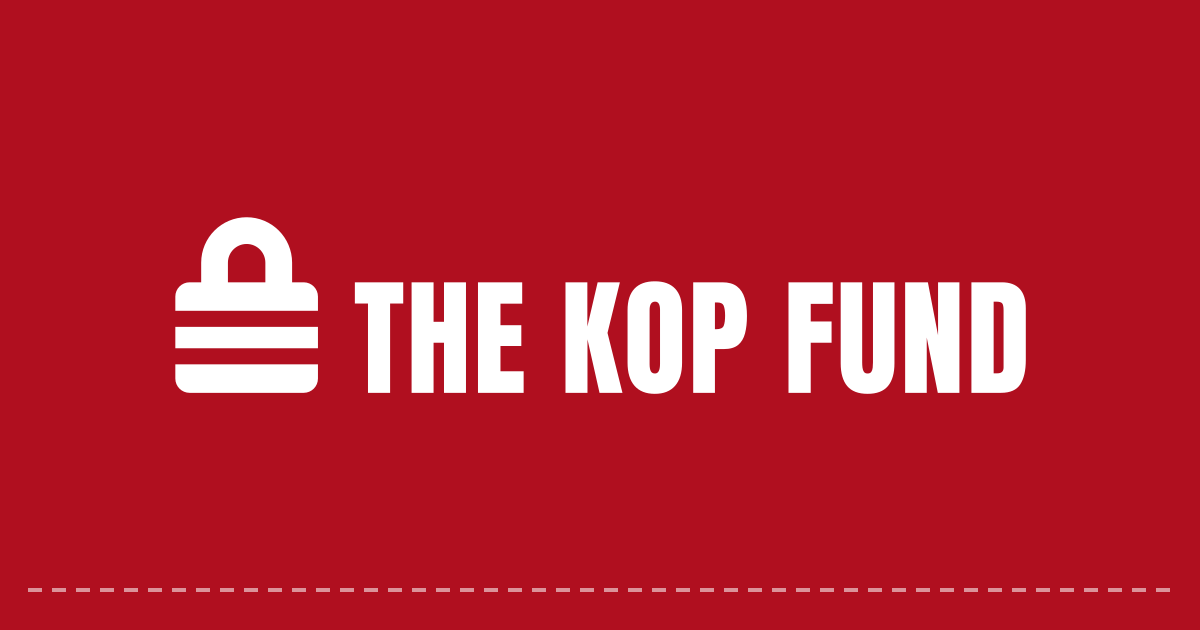
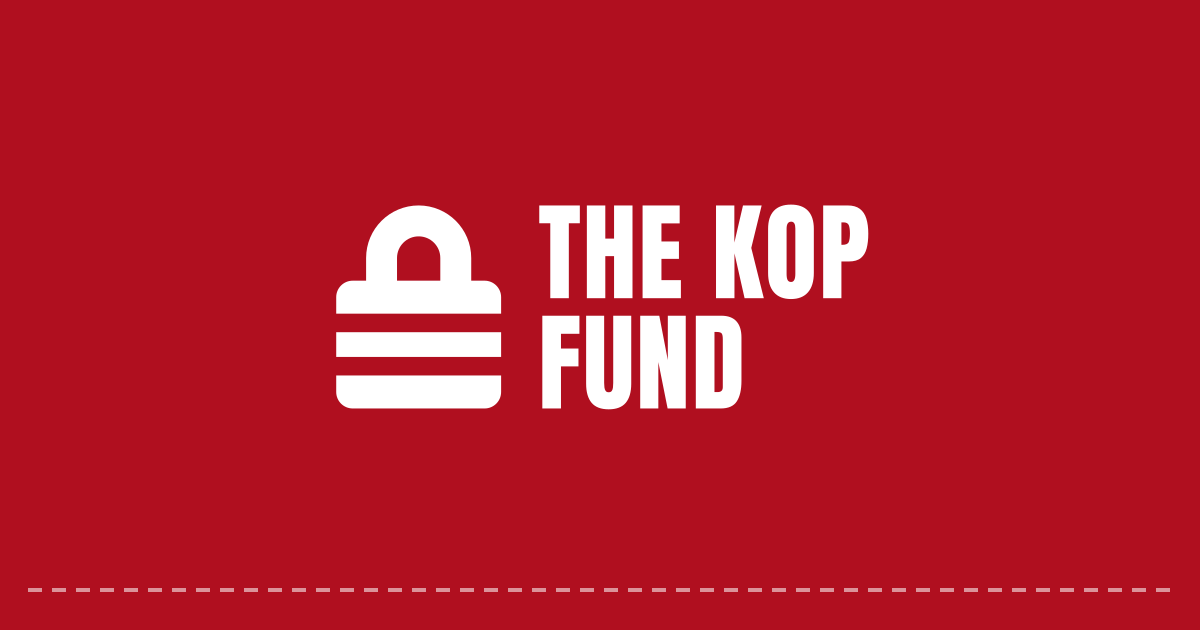
Link preview: stacked lockup, so it fits a square crop
WhatsApp shows link previews as a square cut from the middle of the
picture, which cut the one-line name in half. The lock and the stacked
name now sit inside the centre square. The picture's address gets ?v=2 so
apps that cached the old one fetch it again.

Changed region(s): [[0.1233, 0.3016, 0.8633, 0.6635]]

diff --git a/spec/index.html b/spec/index.html
@@ -9,7 +9,7 @@
 <meta property="og:description" content="The seven documents that define the fund: the declaration, the registration format, the counting rule, the lock format, proposals and settlement, commitments, and the published destinations list.">
 <meta property="og:site_name" data-t="{name}" content="The Kop Fund">
 <meta property="og:type" content="website">
-<meta property="og:image" content="https://thekopfund.org/assets/og-image.png">
+<meta property="og:image" content="https://thekopfund.org/assets/og-image.png?v=2">
 <meta property="og:image:width" content="1200">
 <meta property="og:image:height" content="630">
 <meta property="og:image:alt" data-t="{name}: a red padlock with two white bars" content="The Kop Fund: a red padlock with two white bars">

diff --git a/society/index.html b/society/index.html
@@ -9,7 +9,7 @@
 <meta property="og:description" content="The plan for who would hold a stake if one is ever bought: a supporters' society, one member one vote. A plan, not a thing that exists yet.">
 <meta property="og:site_name" data-t="{name}" content="The Kop Fund">
 <meta property="og:type" content="website">
-<meta property="og:image" content="https://thekopfund.org/assets/og-image.png">
+<meta property="og:image" content="https://thekopfund.org/assets/og-image.png?v=2">
 <meta property="og:image:width" content="1200">
 <meta property="og:image:height" content="630">
 <meta property="og:image:alt" data-t="{name}: a red padlock with two white bars" content="The Kop Fund: a red padlock with two white bars">

diff --git a/declaration/index.html b/declaration/index.html
@@ -9,7 +9,7 @@
 <meta property="og:description" content="The declaration supporters sign to become members. Read it, check its fingerprint, then sign. Signing is free and moves no money.">
 <meta property="og:site_name" data-t="{name}" content="The Kop Fund">
 <meta property="og:type" content="website">
-<meta property="og:image" content="https://thekopfund.org/assets/og-image.png">
+<meta property="og:image" content="https://thekopfund.org/assets/og-image.png?v=2">
 <meta property="og:image:width" content="1200">
 <meta property="og:image:height" content="630">
 <meta property="og:image:alt" data-t="{name}: a red padlock with two white bars" content="The Kop Fund: a red padlock with two white bars">

diff --git a/index.html b/index.html
@@ -9,7 +9,7 @@
 <meta property="og:description" content="Liverpool supporters locking bitcoin to buy a stake in their club. Nobody holds your money but you, and nothing is ever paid out.">
 <meta property="og:site_name" data-t="{name}" content="The Kop Fund">
 <meta property="og:type" content="website">
-<meta property="og:image" content="https://thekopfund.org/assets/og-image.png">
+<meta property="og:image" content="https://thekopfund.org/assets/og-image.png?v=2">
 <meta property="og:image:width" content="1200">
 <meta property="og:image:height" content="630">
 <meta property="og:image:alt" data-t="{name}: a red padlock with two white bars" content="The Kop Fund: a red padlock with two white bars">

diff --git a/risk/index.html b/risk/index.html
@@ -9,7 +9,7 @@
 <meta property="og:description" content="What you are risking if you lock bitcoin: a price you cannot escape, keys you can lose, and a project that may simply fail.">
 <meta property="og:site_name" data-t="{name}" content="The Kop Fund">
 <meta property="og:type" content="website">
-<meta property="og:image" content="https://thekopfund.org/assets/og-image.png">
+<meta property="og:image" content="https://thekopfund.org/assets/og-image.png?v=2">
 <meta property="og:image:width" content="1200">
 <meta property="og:image:height" content="630">
 <meta property="og:image:alt" data-t="{name}: a red padlock with two white bars" content="The Kop Fund: a red padlock with two white bars">

diff --git a/register/index.html b/register/index.html
@@ -9,7 +9,7 @@
 <meta property="og:description" content="Everything locked, checked in your own browser against the blockchain. Signatures are published in full and never counted.">
 <meta property="og:site_name" data-t="{name}" content="The Kop Fund">
 <meta property="og:type" content="website">
-<meta property="og:image" content="https://thekopfund.org/assets/og-image.png">
+<meta property="og:image" content="https://thekopfund.org/assets/og-image.png?v=2">
 <meta property="og:image:width" content="1200">
 <meta property="og:image:height" content="630">
 <meta property="og:image:alt" data-t="{name}: a red padlock with two white bars" content="The Kop Fund: a red padlock with two white bars">

diff --git a/why/index.html b/why/index.html
@@ -9,7 +9,7 @@
 <meta property="og:description" content="Why supporters should own a piece of their own club, what a holding actually gets you, and why it is worth doing anyway.">
 <meta property="og:site_name" data-t="{name}" content="The Kop Fund">
 <meta property="og:type" content="website">
-<meta property="og:image" content="https://thekopfund.org/assets/og-image.png">
+<meta property="og:image" content="https://thekopfund.org/assets/og-image.png?v=2">
 <meta property="og:image:width" content="1200">
 <meta property="og:image:height" content="630">
 <meta property="og:image:alt" data-t="{name}: a red padlock with two white bars" content="The Kop Fund: a red padlock with two white bars">

diff --git a/how/index.html b/how/index.html
@@ -9,7 +9,7 @@
 <meta property="og:description" content="The questions people actually ask: where the money goes, what a lock is, who holds the keys, and what you get for it.">
 <meta property="og:site_name" data-t="{name}" content="The Kop Fund">
 <meta property="og:type" content="website">
-<meta property="og:image" content="https://thekopfund.org/assets/og-image.png">
+<meta property="og:image" content="https://thekopfund.org/assets/og-image.png?v=2">
 <meta property="og:image:width" content="1200">
 <meta property="og:image:height" content="630">
 <meta property="og:image:alt" data-t="{name}: a red padlock with two white bars" content="The Kop Fund: a red padlock with two white bars">

diff --git a/join/index.html b/join/index.html
@@ -9,7 +9,7 @@
 <meta property="og:description" content="Sign the Supporters' Declaration and become a member. It costs nothing, moves no money, and takes about five minutes.">
 <meta property="og:site_name" data-t="{name}" content="The Kop Fund">
 <meta property="og:type" content="website">
-<meta property="og:image" content="https://thekopfund.org/assets/og-image.png">
+<meta property="og:image" content="https://thekopfund.org/assets/og-image.png?v=2">
 <meta property="og:image:width" content="1200">
 <meta property="og:image:height" content="630">
 <meta property="og:image:alt" data-t="{name}: a red padlock with two white bars" content="The Kop Fund: a red padlock with two white bars">

diff --git a/take-home/index.html b/take-home/index.html
@@ -9,7 +9,7 @@
 <meta property="og:description" content="On your date your locked bitcoin is yours again. Take it home with a Ledger on this page, or with the Crowdlock app.">
 <meta property="og:site_name" data-t="{name}" content="The Kop Fund">
 <meta property="og:type" content="website">
-<meta property="og:image" content="https://thekopfund.org/assets/og-image.png">
+<meta property="og:image" content="https://thekopfund.org/assets/og-image.png?v=2">
 <meta property="og:image:width" content="1200">
 <meta property="og:image:height" content="630">
 <meta property="og:image:alt" data-t="{name}: a red padlock with two white bars" content="The Kop Fund: a red padlock with two white bars">

diff --git a/get-bitcoin/index.html b/get-bitcoin/index.html
@@ -9,7 +9,7 @@
 <meta property="og:description" content="Only needed if you want to lock bitcoin. If you have none yet, here is how to get some into a wallet you control.">
 <meta property="og:site_name" data-t="{name}" content="The Kop Fund">
 <meta property="og:type" content="website">
-<meta property="og:image" content="https://thekopfund.org/assets/og-image.png">
+<meta property="og:image" content="https://thekopfund.org/assets/og-image.png?v=2">
 <meta property="og:image:width" content="1200">
 <meta property="og:image:height" content="630">
 <meta property="og:image:alt" data-t="{name}: a red padlock with two white bars" content="The Kop Fund: a red padlock with two white bars">

diff --git a/lock/index.html b/lock/index.html
@@ -9,7 +9,7 @@
 <meta property="og:description" content="Lock bitcoin for a length you choose, check it arrived, publish it, and take it home on your date.">
 <meta property="og:site_name" data-t="{name}" content="The Kop Fund">
 <meta property="og:type" content="website">
-<meta property="og:image" content="https://thekopfund.org/assets/og-image.png">
+<meta property="og:image" content="https://thekopfund.org/assets/og-image.png?v=2">
 <meta property="og:image:width" content="1200">
 <meta property="og:image:height" content="630">
 <meta property="og:image:alt" data-t="{name}: a red padlock with two white bars" content="The Kop Fund: a red padlock with two white bars">
